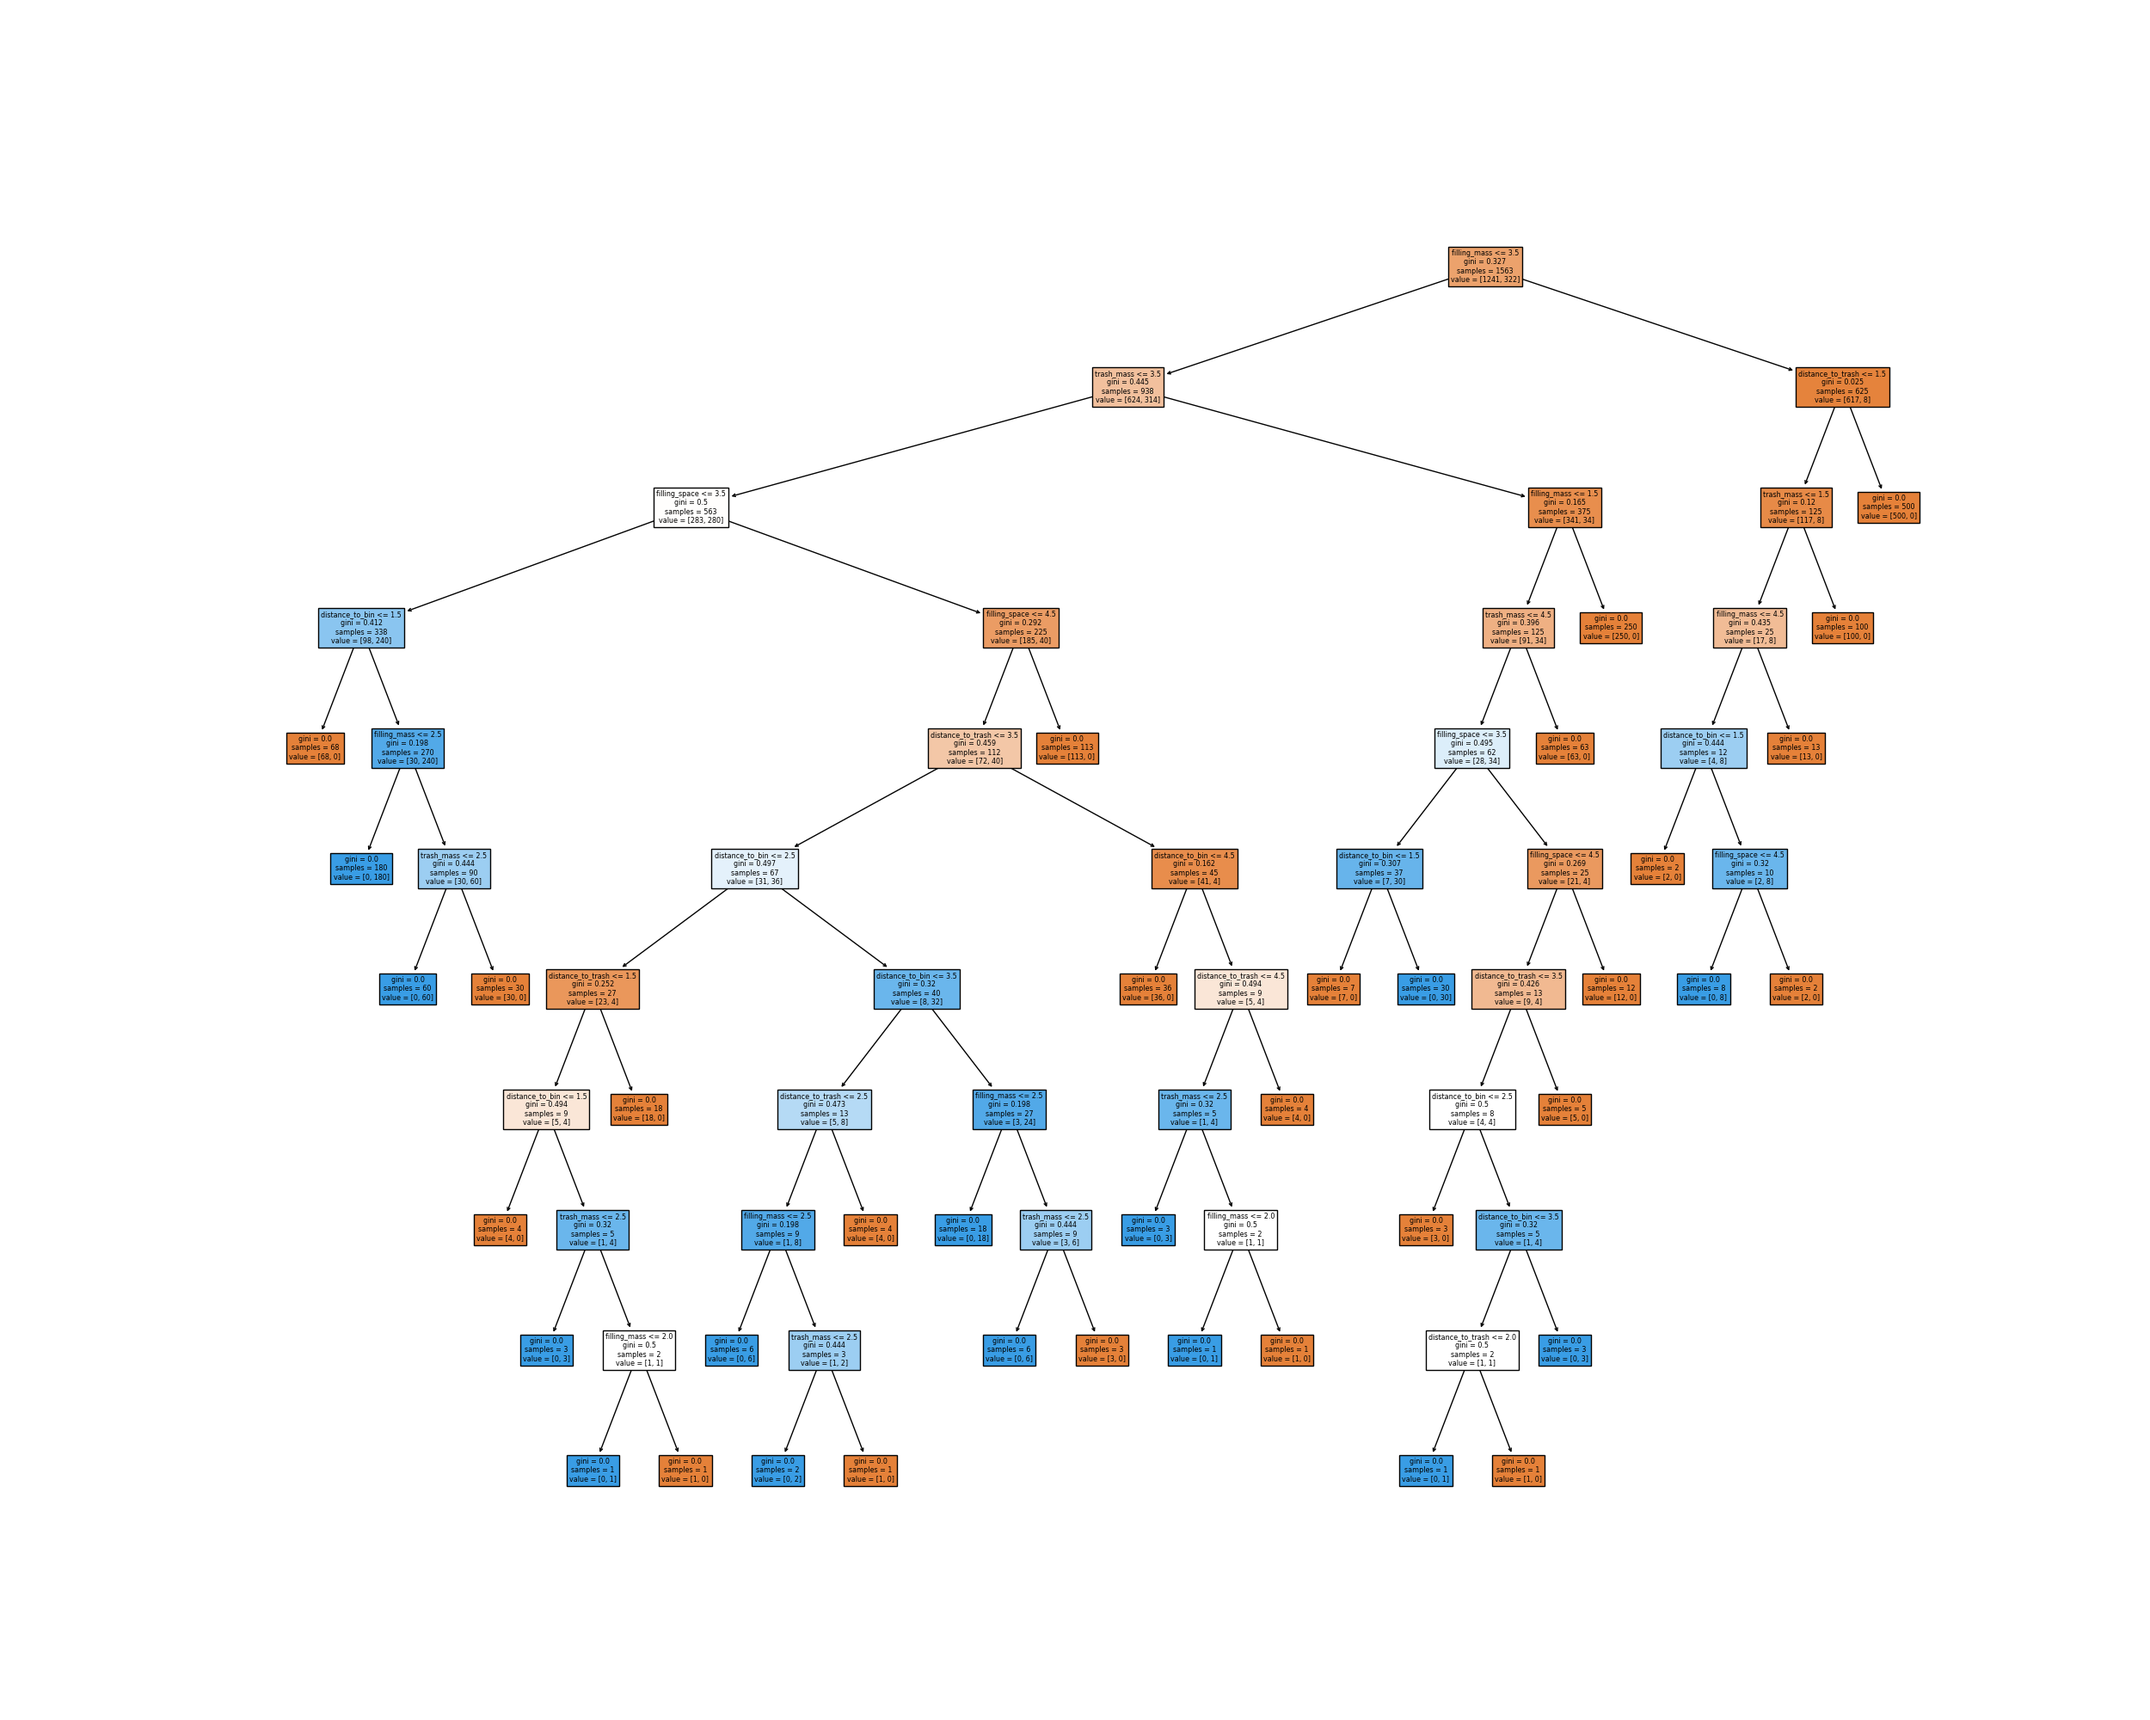
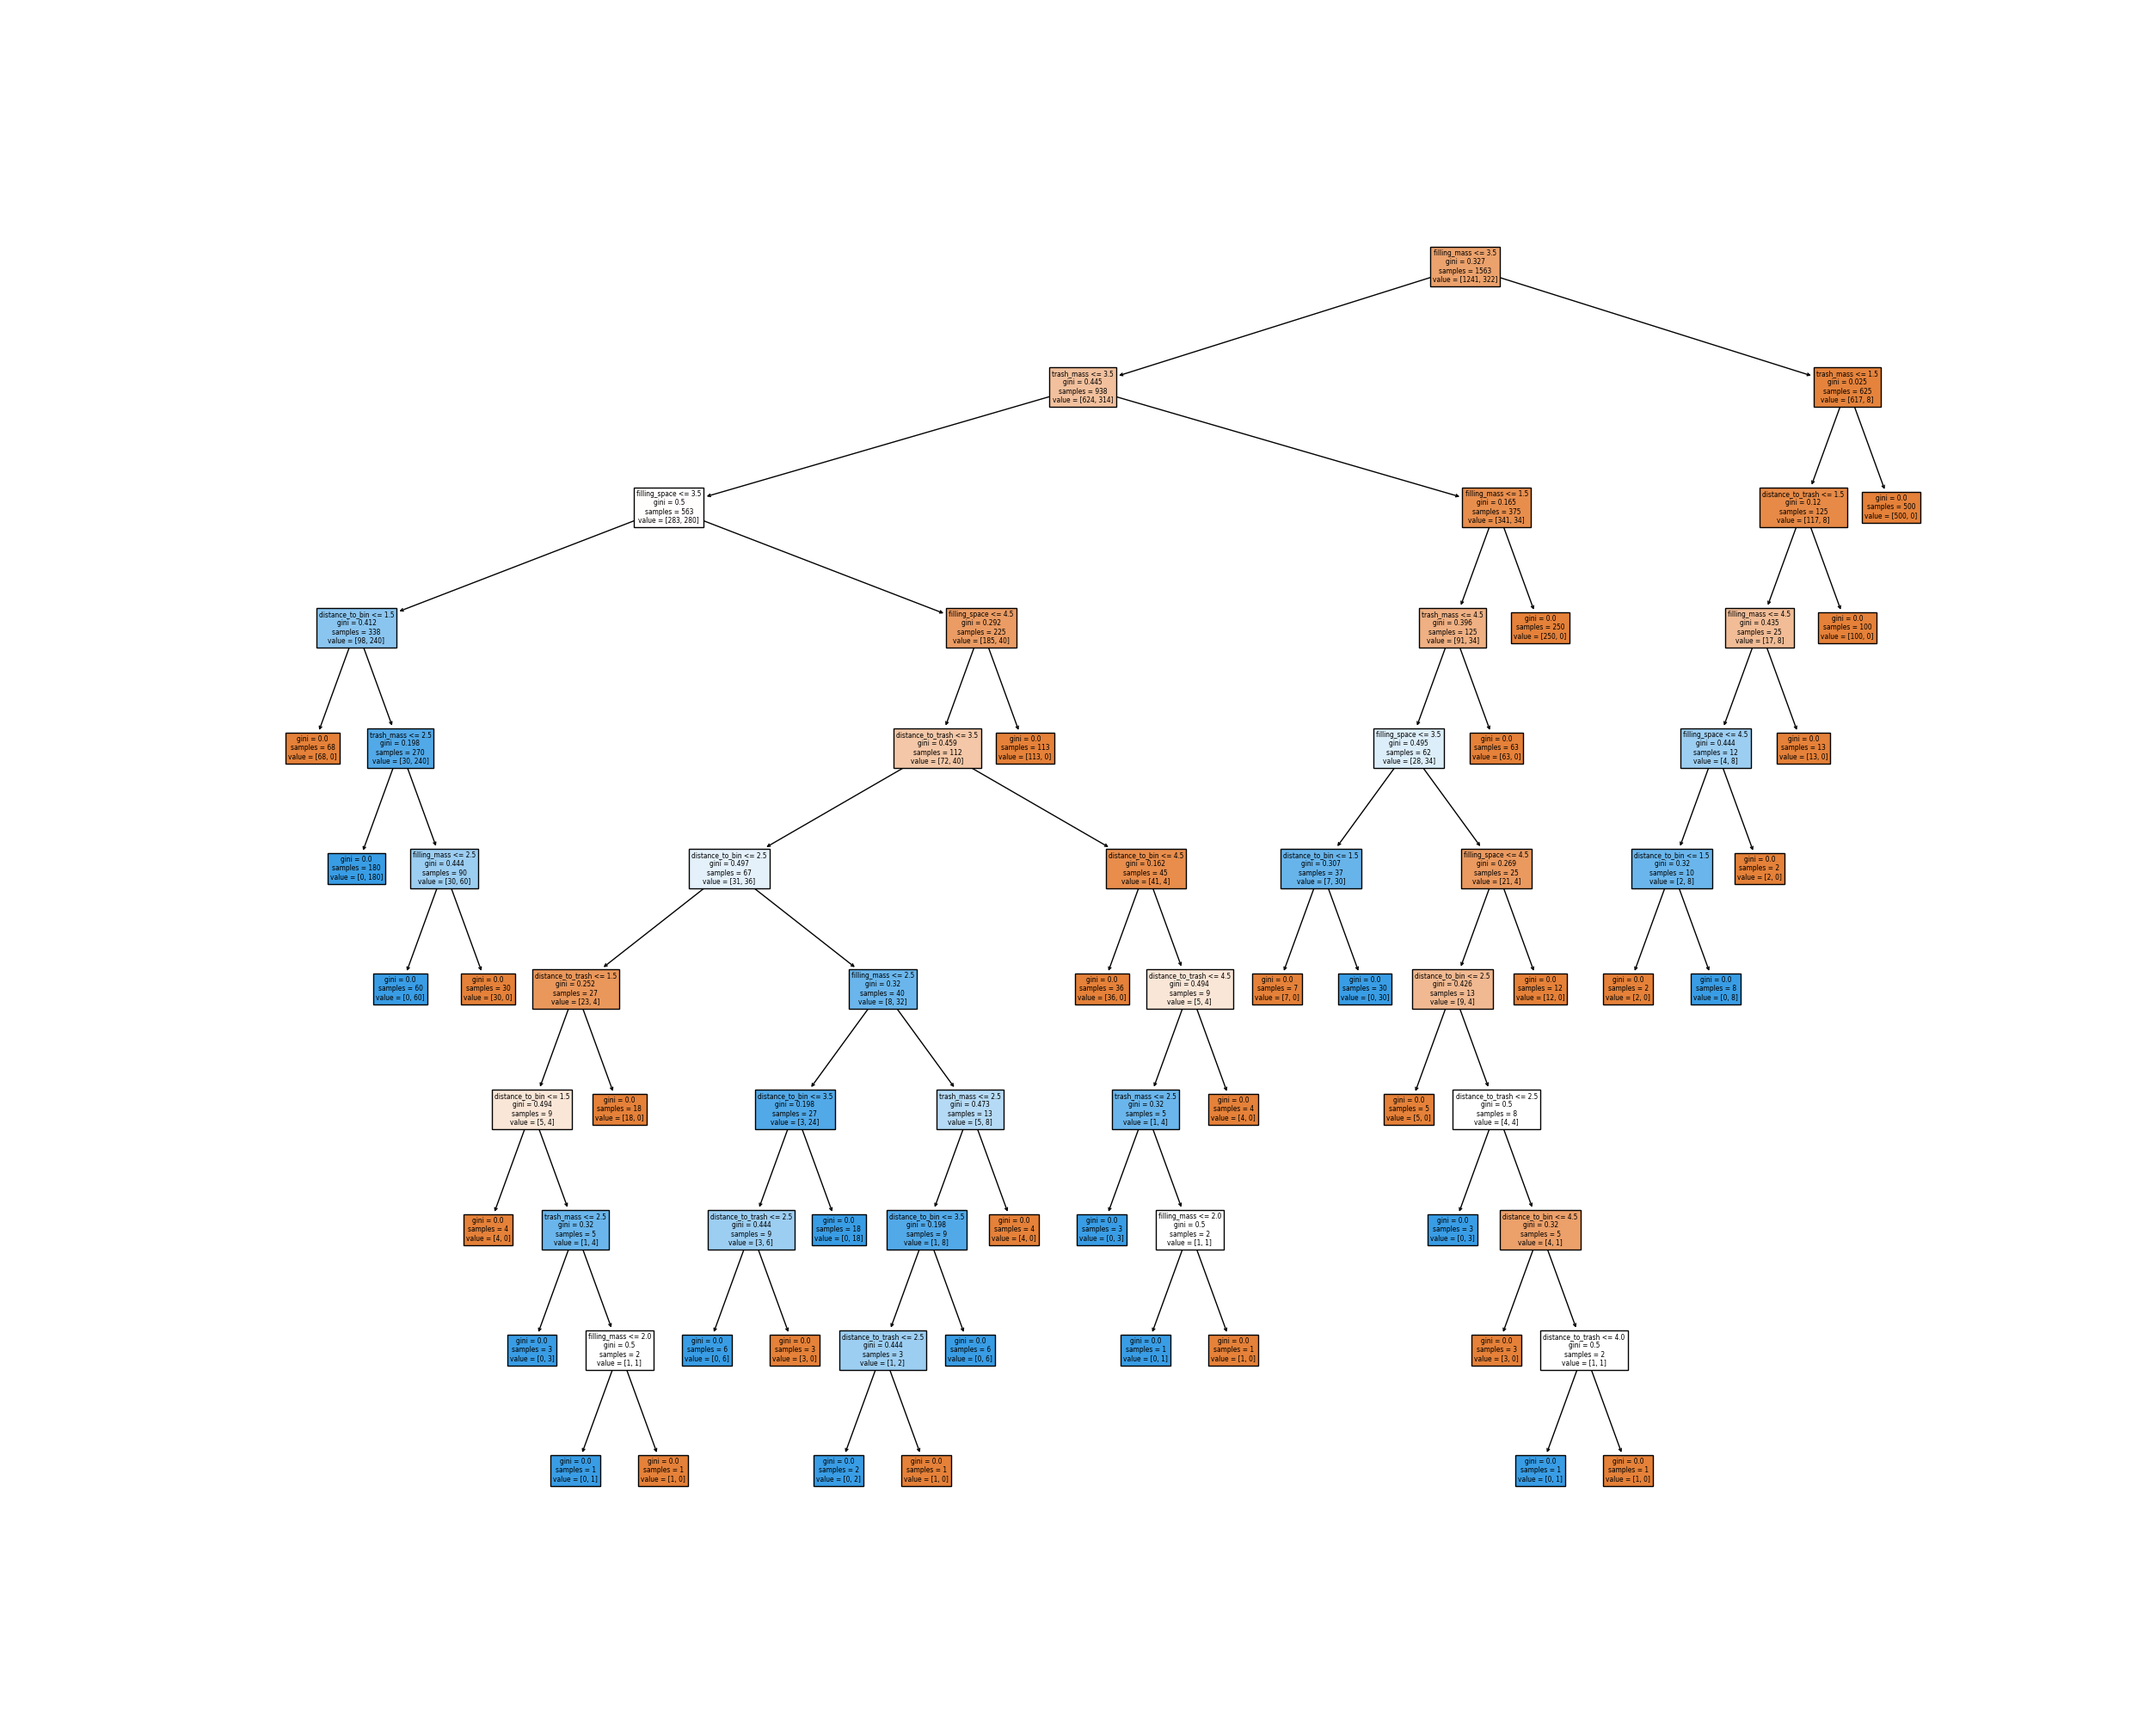
Further code cleanup Changed decision handling (added auto movement after decision) Fixed (10, 10) grid position Added function merging other for saving decision tree

diff --git a/Classes/Game.py b/Classes/Game.py
@@ -17,11 +17,31 @@ class Game:
         pygame.display.set_caption(WINDOW_TITLE)
         self.clock = pygame.time.Clock()
         pygame.key.set_repeat(500, 100)
+
+        self.playing = True
+        self.dt = None
+
+        self.all_sprites = None
+        self.borders = None
+        self.houses = None
+        self.holes = None
+
+        self.dump = None
+        self.trash = None
+        self.truck = None
+
+        self.map_data = []
+
+        self.distance_to_dump = None
+        self.distance_to_trash = None
+
+        self.decision_tree = None
+        self.made_decision = []
+
         self.load_data()
 
     def load_data(self):
         game_folder = path.dirname(__file__)
-        self.map_data = []
         with open(path.join(game_folder, '../Assets/map.txt'), 'rt') as file:
             for line in file:
                 self.map_data.append(line)
@@ -32,6 +52,7 @@ class Game:
         self.houses = pygame.sprite.Group()
         self.holes = pygame.sprite.Group()
         var_x, var_y = 0, 0
+
         for row, tiles in enumerate(self.map_data):
             for col, tile in enumerate(tiles):
                 if tile == '1':
@@ -50,14 +71,14 @@ class Game:
         self.truck = Truck.Truck(self, var_x, var_y)
 
     def run(self):  # game loop
-        self.playing = True
         while self.playing:
             self.dt = self.clock.tick(FPS) / 1000
             self.events()
             self.update()
             self.draw()
 
-    def quit(self):
+    @staticmethod
+    def quit():
         pygame.quit()
         sys.exit()
 
@@ -85,6 +106,7 @@ class Game:
         for event in pygame.event.get():
             if event.type == pygame.QUIT:
                 self.quit()
+
             if event.type == pygame.KEYDOWN:
                 if event.key == pygame.K_ESCAPE:
                     self.quit()
@@ -108,8 +130,26 @@ class Game:
                     self.truck.move_truck()
                     pygame.event.clear()
 
+                if event.key == pygame.K_l:  # learn the tree
+                    if path.isfile('./DecisionTree/tree_model') and not os.stat(
+                            './DecisionTree/tree_model').st_size == 0:
+                        self.decision_tree = tree.load_tree_from_structure('./DecisionTree/tree_model')
+                        print("Tree model already exists!\n")
+
+                    else:
+                        gen_tree = tree.learning_tree()
+                        tree.save_all(gen_tree)
+                        self.decision_tree = tree.load_tree_from_structure('./DecisionTree/tree_model')
+                        print("Tree model created!\n")
+
+                    pygame.event.clear()
+
                 if event.key == pygame.K_d:  # decision tree
-                    self.distance_to_dump = self.truck.start_search(self.dump, 1)
+                    if self.truck.x == self.dump.x and self.truck.y == self.dump.y:
+                        self.distance_to_dump = 1
+                    else:
+                        self.distance_to_dump = self.truck.start_search(self.dump, 1)
+
                     self.distance_to_trash = self.truck.start_search(self.trash, 1)
 
                     print(
@@ -117,36 +157,31 @@ class Game:
                             self.distance_to_dump, self.distance_to_trash, self.truck.mass, self.truck.space,
                             self.trash.mass, self.trash.space))
 
-                    self.made_decision = tree.making_decision(self.decision_tree, self.distance_to_dump,
-                                                              self.distance_to_trash, self.truck.mass // 20 + 1,
-                                                              self.truck.space // 20 + 1, self.trash.mass // 20 + 1,
-                                                              self.trash.space // 20 + 1)
+                    if self.distance_to_dump == 1:
+                        self.made_decision = []
+                        self.made_decision.append(1)
+                    else:
+                        self.made_decision = tree.making_decision(self.decision_tree, self.distance_to_dump // 40 + 1,
+                                                                  self.distance_to_trash // 40 + 1,
+                                                                  self.truck.mass // 20 + 1,
+                                                                  self.truck.space // 20 + 1, self.trash.mass // 20 + 1,
+                                                                  self.trash.space // 20 + 1)
 
                     if self.made_decision[0] == 0:
                         print("Go to dump, free the truck!\n")
+
+                        self.truck.start_search(self.dump, 1)
+                        self.truck.move_truck()
+
+                        pygame.event.clear()
+
                     elif self.made_decision[0] == 1:
                         print("Go to trash, pick it up!\n")
-                    pygame.event.clear()
 
-                # if event.key == pygame.K_g:
-                #     if self.made_decision[0] == 0:
-                #         self.truck.start_search(self.dump, 1)
-                #
-                #     self.truck.move_truck()
-                #     pygame.event.clear()
+                        self.truck.start_search(self.trash, 1)
+                        self.truck.move_truck()
 
-                if event.key == pygame.K_l:  # learn the tree
-                    if path.isfile('./DecisionTree/tree_model') and not os.stat(
-                            './DecisionTree/tree_model').st_size == 0:
-                        self.decision_tree = tree.load_tree_from_structure('./DecisionTree/tree_model')
-                        print("Tree model already exists!\n")
-                    else:
-                        gen_tree = tree.learning_tree()
-                        tree.save_tree_to_txt(gen_tree)
-                        tree.save_tree_to_png(gen_tree)
-                        tree.save_tree_to_structure(gen_tree)
-                        self.decision_tree = tree.load_tree_from_structure('./DecisionTree/tree_model')
-                        print("Tree model created!\n")
+                        pygame.event.clear()
 
                     pygame.event.clear()
 
@@ -155,6 +190,6 @@ class Game:
                 self.truck.space += self.trash.space
                 self.trash.change_details()
 
-            if self.truck.x == self.dump.x and self.truck.x == self.dump.y and self.truck.mass > 0 and self.truck.space > 0:
+            if self.truck.x == self.dump.x and self.truck.y == self.dump.y and self.truck.mass > 0 and self.truck.space > 0:
                 self.truck.mass = 0
                 self.truck.space = 0

diff --git a/Classes/Searching.py b/Classes/Searching.py
@@ -12,7 +12,7 @@ class Search:
         self.holes = holes
         self.end_cost = None
 
-    def search_aStar(self):  # A*
+    def search_a_star(self):  # A*
         start_node = Node(self.istate)
 
         if self.goal_test(start_node.state):
@@ -20,6 +20,7 @@ class Search:
 
         fringe = PriorityQueue()
         fringe.put((0, start_node))
+
         action_list = []
         explored = []
 
@@ -28,7 +29,8 @@ class Search:
             explored.append(current_node.state)  # adding node where we currently are to visited ones
 
             if self.goal_test(current_node.state):
-                self.end_cost = current_node.cost
+                self.end_cost = current_node.cost  # remembering found best route cost
+
                 while current_node.parent is not None:
                     action_list.append(current_node.action)
                     current_node = current_node.parent
@@ -44,6 +46,7 @@ class Search:
 
                 if self.no_node_in_list_for_queue(successor, fringe) and self.no_state_in_list(successor.state, explored):
                     fringe.put((power, successor))
+
                 elif not self.no_node_in_list_for_queue(successor, fringe):  # if node is present in fringe
                     return_node, index = self.node_list_state_test_values(successor, fringe)
 
@@ -58,7 +61,7 @@ class Search:
                         for j in range(index - 1):
                             fringe.put(temp_queue.get())
 
-    def search(self):
+    def search_BFS(self):
         start_node = Node(self.istate)
 
         if self.goal_test(start_node.state):
@@ -71,6 +74,7 @@ class Search:
         while fringe:
             current_node = fringe.pop(0)
             explored.append(current_node.state)
+
             if self.goal_test(current_node.state):
                 while current_node.parent is not None:
                     action_list.append(current_node.action)
@@ -88,30 +92,40 @@ class Search:
     def goal_test(self, state):  # if state is in the states list = goal achieved
         if not self.no_state_in_list(state, self.goal):
             return True
+
         return False
 
-    def no_node_in_list(self, node_to_check, test_node_list):
+    @staticmethod
+    def no_node_in_list(node_to_check, test_node_list):
         for node in test_node_list:
             if node.state.x == node_to_check.state.x and node.state.y == node_to_check.state.y and node.state.rotation == node_to_check.state.rotation:
                 return False
+
         return True
 
-    def no_node_in_list_for_queue(self, node_to_check, test_node_list):
+    @staticmethod
+    def no_node_in_list_for_queue(node_to_check, test_node_list):
         for node in test_node_list.queue:
             if node[1].state.x == node_to_check.state.x and node[1].state.y == node_to_check.state.y and node[1].state.rotation == node_to_check.state.rotation:
                 return False
+
         return True
 
-    def no_state_in_list(self, state_to_check, state_list):
+    @staticmethod
+    def no_state_in_list(state_to_check, state_list):
         for state in state_list:
             if state.x == state_to_check.x and state.y == state_to_check.y and state.rotation == state_to_check.rotation:
                 return False
+
         return True
 
-    def node_list_state_test_values(self, test_node, test_node_list):
+    @staticmethod
+    def node_list_state_test_values(test_node, test_node_list):
         i = 0
+
         for node in test_node_list.queue:
             i += 1
+
             if node[1].state.x == test_node.state.x and node[1].state.y == test_node.state.y and node[1].state.rotation == test_node.state.rotation:
                 return node, i
 
@@ -173,11 +187,14 @@ class Search:
 
     def heuristic(self, a, b):
         distance_manhattan = abs(a.state.x - b.x) + abs(a.state.y - b.y)
+
         if a.parent is not None:
             a.cost += a.parent.cost
+
             for hole in self.holes:
                 if hole.x == a.state.x and hole.y == a.state.y:
                     a.cost += HOLE_COST
+
         return a.cost + distance_manhattan
 
 

diff --git a/DecisionTree/tree.py b/DecisionTree/tree.py
@@ -28,6 +28,12 @@ def making_decision(decision_tree, distance_to_bin, distance_to_trash, filling_m
     return decision
 
 
+def save_all(decision_tree):
+    save_tree_to_png(decision_tree)
+    save_tree_to_txt(decision_tree)
+    save_tree_to_structure(decision_tree)
+
+
 def save_tree_to_txt(decision_tree):
     with open('./DecisionTree/tree_in_txt.txt', "w") as file:
         file.write(tree.export_text(decision_tree))
